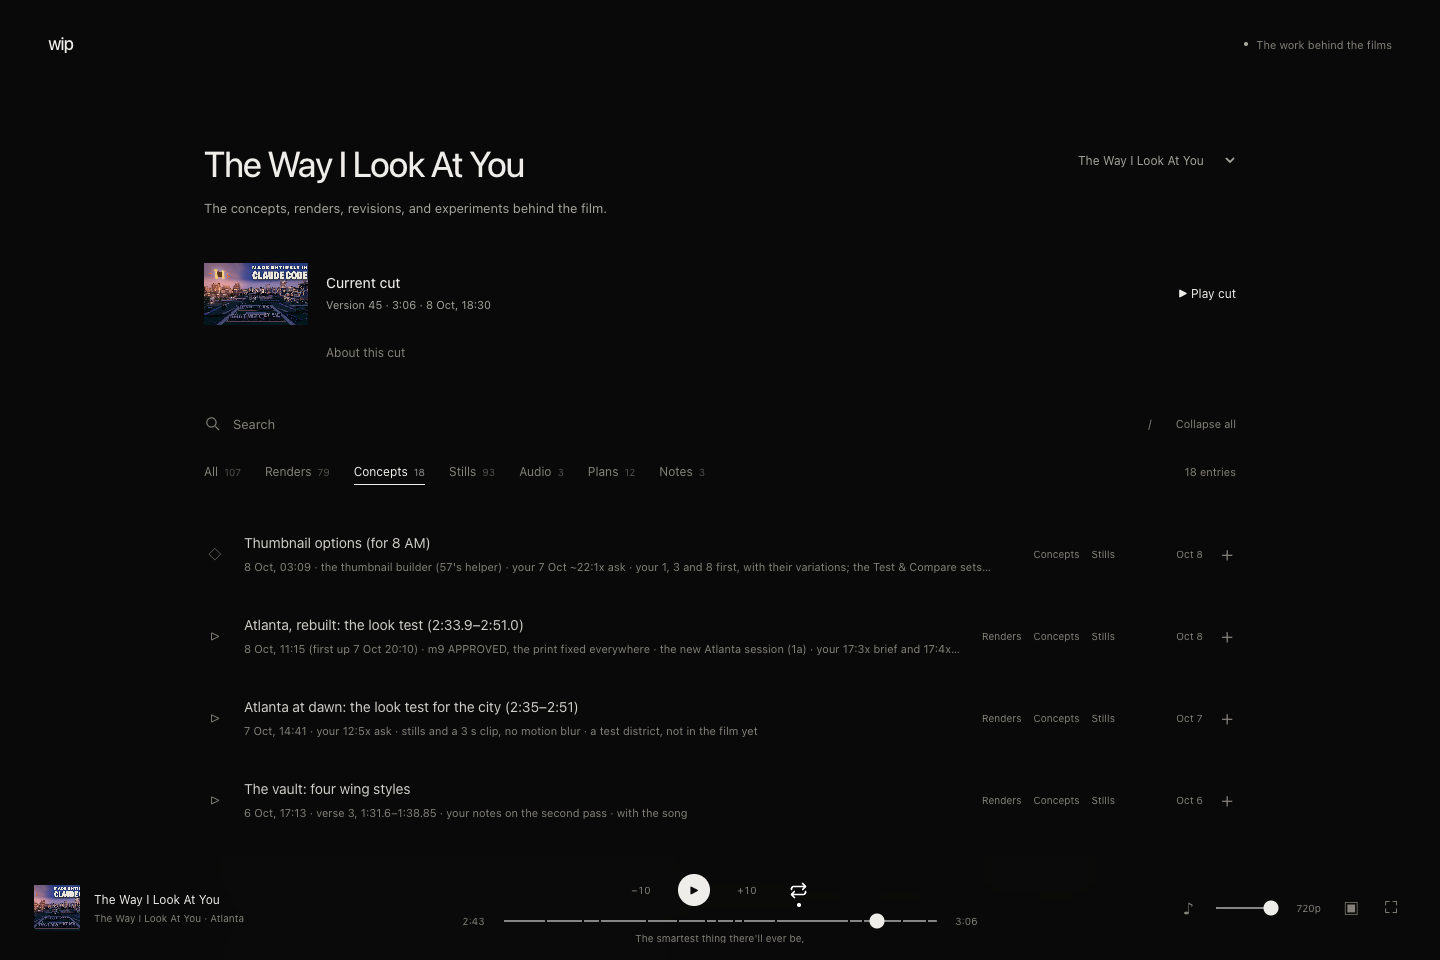
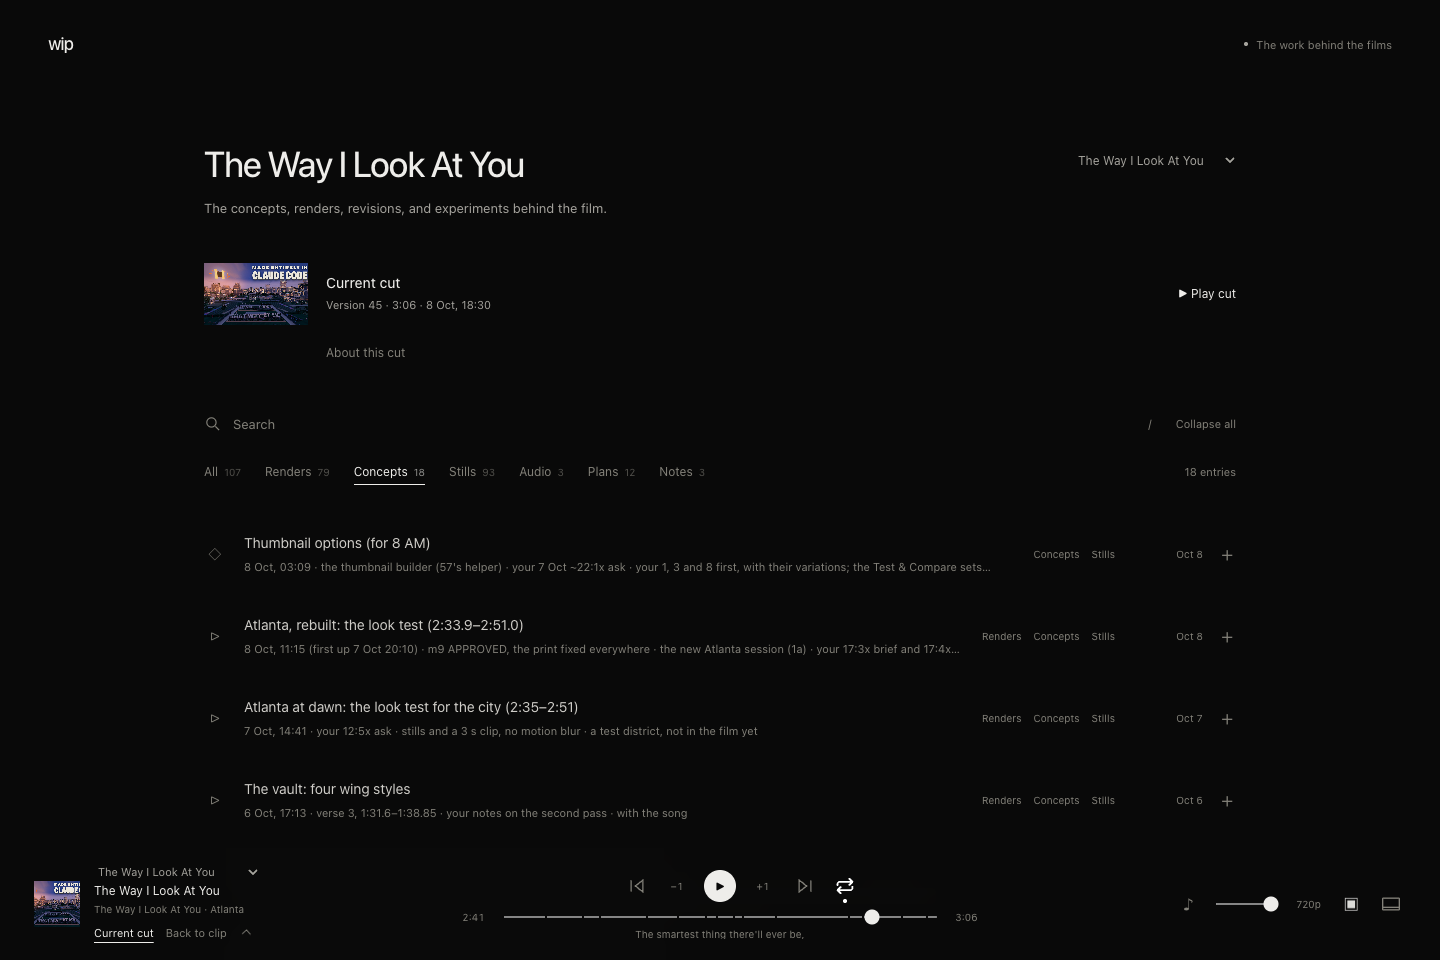
Show the updated player and clip picker in the film screenshots

Changed region(s): [[0.3438, 0.9062, 0.625, 1.0], [0.0, 0.9062, 0.1875, 1.0], [0.8438, 0.9375, 0.9688, 0.9688]]

diff --git a/README.md b/README.md
@@ -10,7 +10,7 @@ Concepts, renders, notes, and the current cut — one list, one player.
 
 </div>
 
-![The Way I Look At You workspace showing the current cut, production entries, and the persistent player with a film preview](docs/images/wip-player.png)
+![The Way I Look At You workspace showing the current cut, production entries, and the persistent player, complete clip picker, and film preview](docs/images/wip-player.png)
 
 *All screenshots show the real [The Way I Look At You workspace](https://imaginativeprompting.com/wip/?project=the-way-i-look-at-you).*
 
